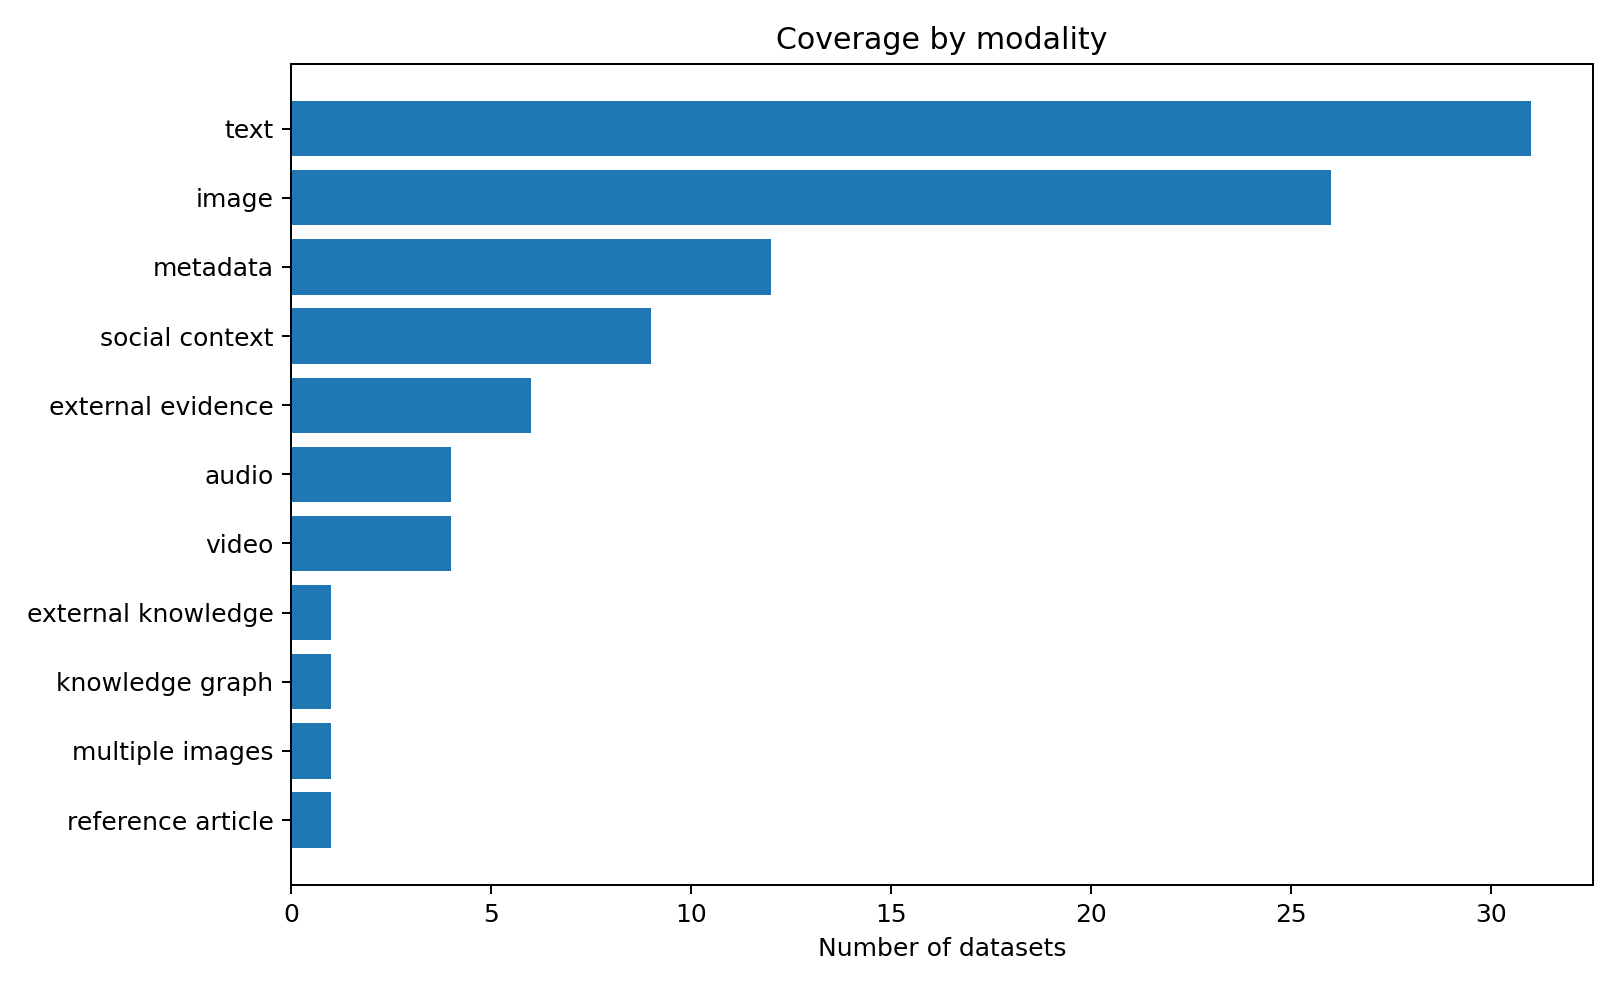
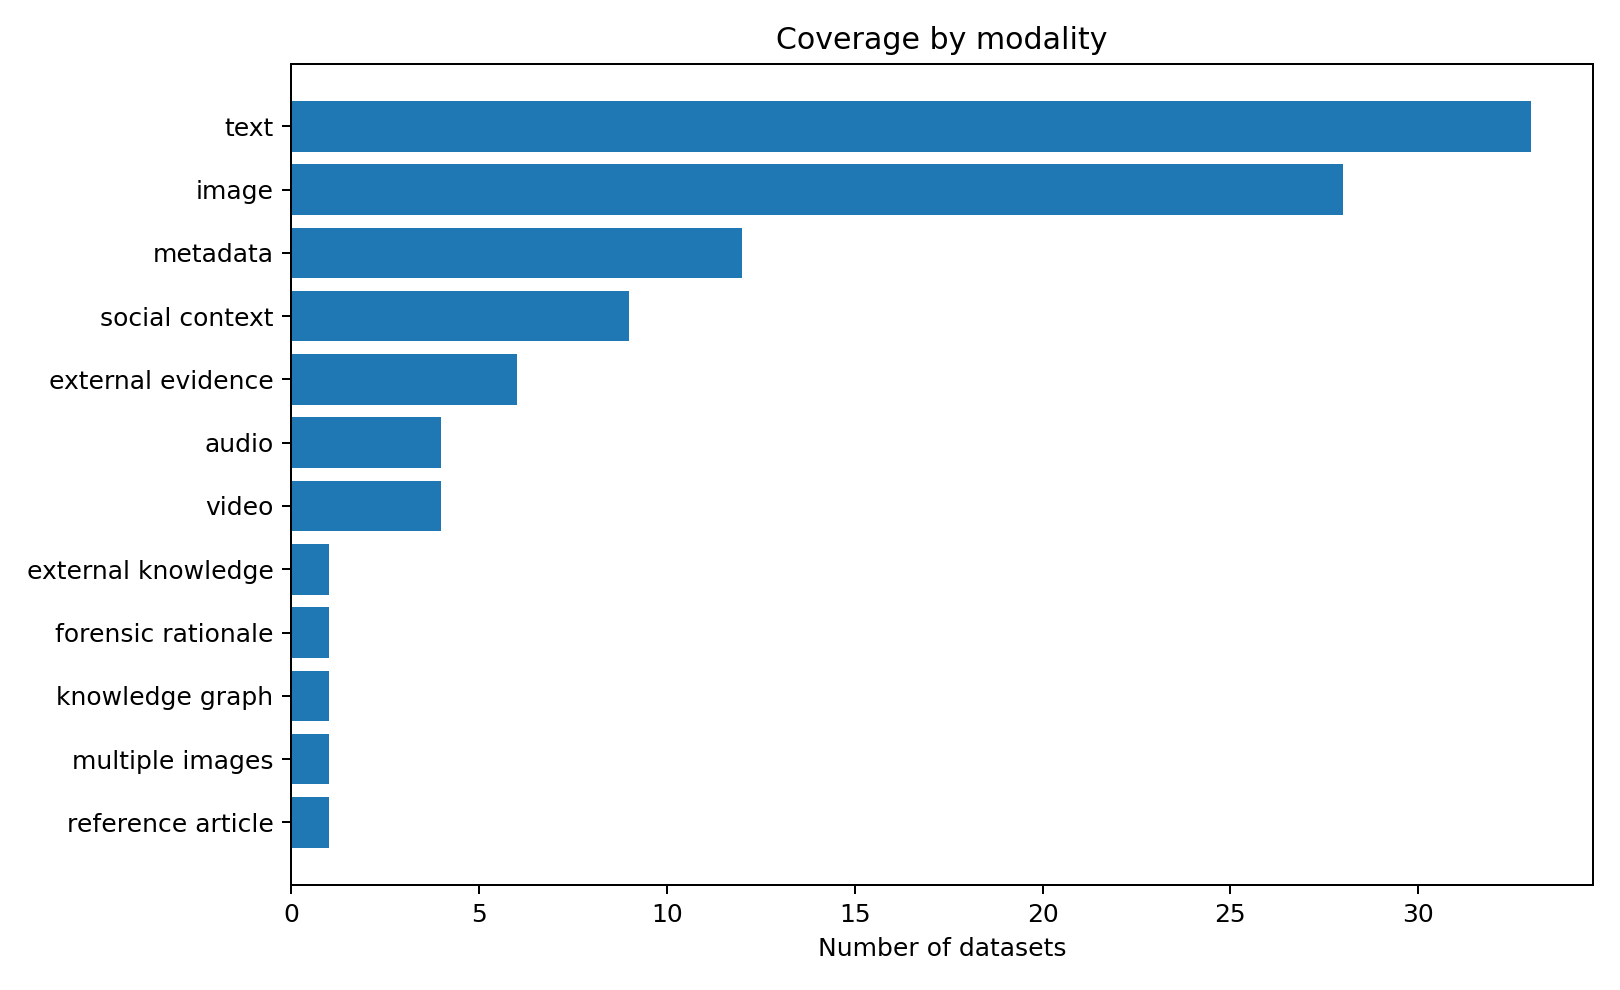
data: add ROM and MDSM benchmarks
Catalog the datasets with their official papers, repositories, ModelScope access links, and regenerated summary assets.

diff --git a/README.md b/README.md
@@ -2,10 +2,10 @@
 
 > A research-oriented collection of **multimodal fake news / misinformation / rumor / disinformation / fact-checking / out-of-context / media manipulation / AI-generated news datasets**.
 
-[![Datasets](https://img.shields.io/badge/Datasets-31-informational)](datasets/datasets.csv)
+[![Datasets](https://img.shields.io/badge/Datasets-33-informational)](datasets/datasets.csv)
 [![Core](https://img.shields.io/badge/Core-21-success)](#-core-multimodal-fake-news-datasets)
-[![Related](https://img.shields.io/badge/Related-10-blueviolet)](#-closely-related-benchmarks)
-[![Last checked](https://img.shields.io/badge/Last%20checked-2026--08--31-success)](catalog/datasets.yaml)
+[![Related](https://img.shields.io/badge/Related-12-blueviolet)](#-closely-related-benchmarks)
+[![Last checked](https://img.shields.io/badge/Last%20checked-2026--09--03-success)](catalog/datasets.yaml)
 
 This collection supports research on **Multimodal Fake News Detection (MFND/MMD)** and related topics. It brings together **papers, official repositories, dataset access links, and structured metadata**—including task, modality, language, domain, label type, and data origin—to make dataset discovery and comparison faster.
 
@@ -13,9 +13,9 @@ This collection supports research on **Multimodal Fake News Detection (MFND/MMD)
 
 ## ✨ Highlights
 
-- 📚 Currently includes **31 datasets / benchmarks**: **21 core datasets + 10 closely related datasets**.
+- 📚 Currently includes **33 datasets / benchmarks**: **21 core datasets + 12 closely related datasets**.
 - 🕰 Covers classic datasets such as **Fakeddit, FakeNewsNet, Weibo, Weibo21, MuMiN, and FakeSV**.
-- 🚀 Continuously includes recent datasets and benchmarks such as **FineFake, AMG, MMFakeBench, MFND, MM-Health, VLDBench, DriftBench, DeceptionDecoded, ReMMDBench, and FakeVE**.
+- 🚀 Continuously includes recent datasets and benchmarks such as **ROM, MDSM, FineFake, AMG, MMFakeBench, MFND, MM-Health, VLDBench, DriftBench, DeceptionDecoded, ReMMDBench, and FakeVE**.
 - 🌍 Covers different settings including **multi-domain, multilingual, social context, external evidence / knowledge, fine-grained labels, multi-image, audio-video, and generative AI**.
 - 🧩 Distinguishes between **real-world data, curated real-world data, out-of-context construction, synthetic manipulation, mixed real + synthetic data, and GenAI-diversified data**.
 - 🗂 `catalog/datasets.yaml` stores the structured metadata, while `datasets/datasets.csv` can be directly used for statistical analysis.
@@ -123,6 +123,8 @@ The following datasets are highly relevant to multimodal fake-news research but 
 
 | Dataset | Year | Main Focus | Modalities | Labels / Task | Scale |
 |---|---:|---|---|---|---:|
+| **ROM**<br>[📄](https://aclanthology.org/2026.acl-long.1316/) [💻](https://github.com/YcZhangSing/REFORM) [📦](https://www.modelscope.cn/datasets/YcZhangSing/ROM) | 2026 · ACL | Reasoning-enhanced multimodal manipulation | `T+I+FR` | Detection + manipulation grounding + forensic reasoning | 704,456 |
+| **MDSM**<br>[📄](https://openaccess.thecvf.com/content/CVPR2026/html/Zhang_The_Coherence_Trap_When_MLLM-Crafted_Narratives_Exploit_Manipulated_Visual_Contexts_CVPR_2026_paper.html) [💻](https://github.com/YcZhangSing/AMD) [📦](https://www.modelscope.cn/datasets/YcZhangSing/MDSM) | 2026 · CVPR | MLLM-driven semantic-aligned manipulation | `T+I` | Detection + 5 manipulation types + image grounding | 441,423 |
 | **MiRAGeNews**<br>[📄](https://aclanthology.org/2024.findings-emnlp.959/) [💻](https://github.com/nosna/miragenews) [📦](https://huggingface.co/datasets/anson-huang/mirage-news) | 2024 · EMNLP Findings | AI-generated news | `T+I` | Real vs AI-generated | 15,000 |
 | **VERITE**<br>[📄](https://link.springer.com/article/10.1007/s13735-023-00317-5) [💻](https://github.com/stevejpapad/image-text-verification) [📦](https://github.com/stevejpapad/image-text-verification) | 2024 · IJMIR | Out-of-context misinformation | `T+I` | 3-way classification | 1,000 |
 | **COSMOS**<br>[📄](https://ojs.aaai.org/index.php/AAAI/article/view/26739) [💻](https://github.com/shivangi-aneja/COSMOS) [📦](https://github.com/shivangi-aneja/COSMOS#dataset) | 2023 · AAAI | OOC detection | `T+I` | Binary classification | 204,458 images |
@@ -169,7 +171,7 @@ Use this table as a first-pass shortlist, then verify licensing, access requirem
 | 🔬 Fine-grained fake type / attribution | **FineFake, AMG, MMFakeBench, MFND** |
 | 🧭 Multi-domain generalization | **FineFake, Weibo21, M³A, VLDBench** |
 | 🧩 Out-of-context image-text misinformation | **COSMOS, NewsCLIPpings, VERITE** |
-| 🛠 Image/text manipulation detection and grounding | **DGM⁴, MFND** |
+| 🛠 Image/text manipulation detection and grounding | **ROM, MDSM, DGM⁴, MFND** |
 | 📰 Real news image-text source corpora / news captioning | **VisualNews, NYTimes800k** |
 | 🔎 External evidence / retrieval-augmented verification | **MR², MOCHEG, FACTIFY, FineFake, ReMMDBench** |
 | 🤖 Robustness in the GenAI era | **MMFakeBench, MM-Health, VLDBench, DriftBench, DeceptionDecoded** |
@@ -189,7 +191,7 @@ Use this table as a first-pass shortlist, then verify licensing, access requirem
 | `A` | Audio | `S` | Social Context |
 | `M` | Metadata | `E` | External Evidence |
 | `K` | External Knowledge | `G` | Knowledge Graph |
-| `R` | Reference Article |  |  |
+| `R` | Reference Article | `FR` | Forensic Rationale |
 
 ---
 
